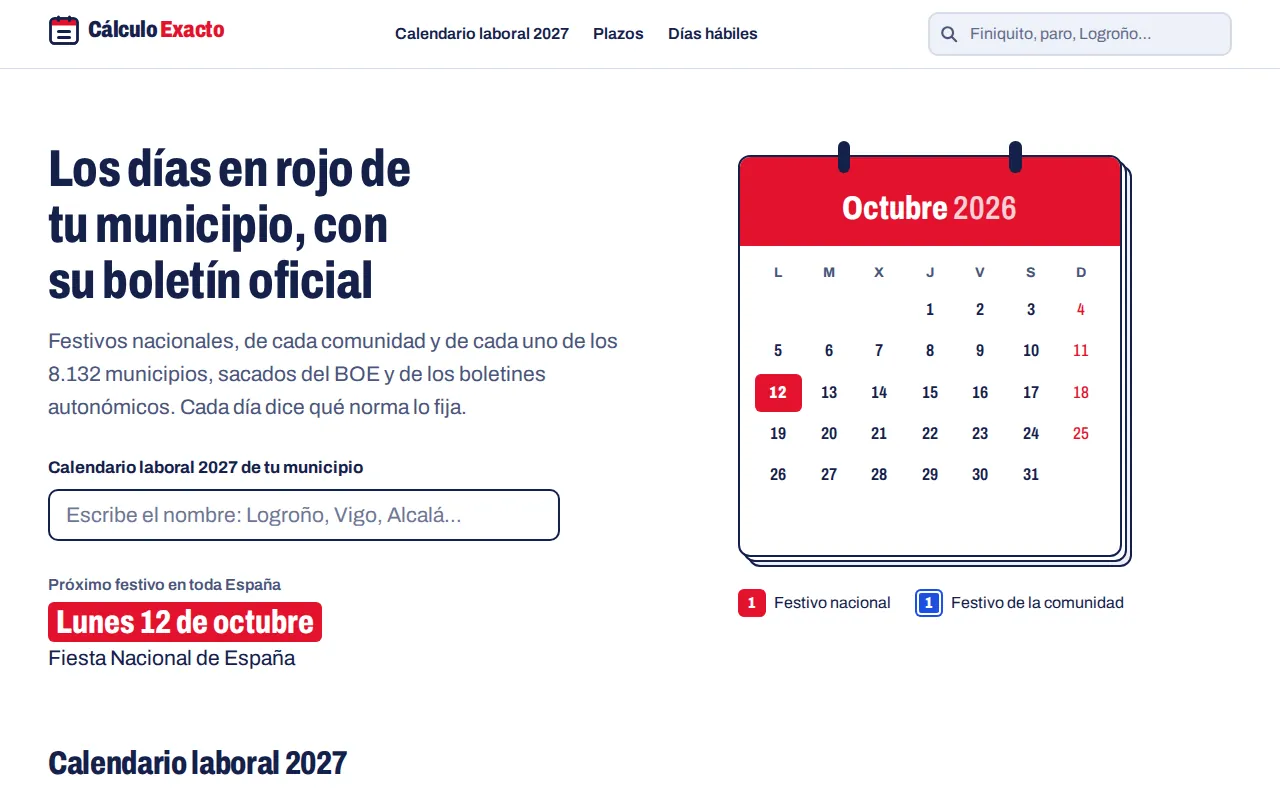
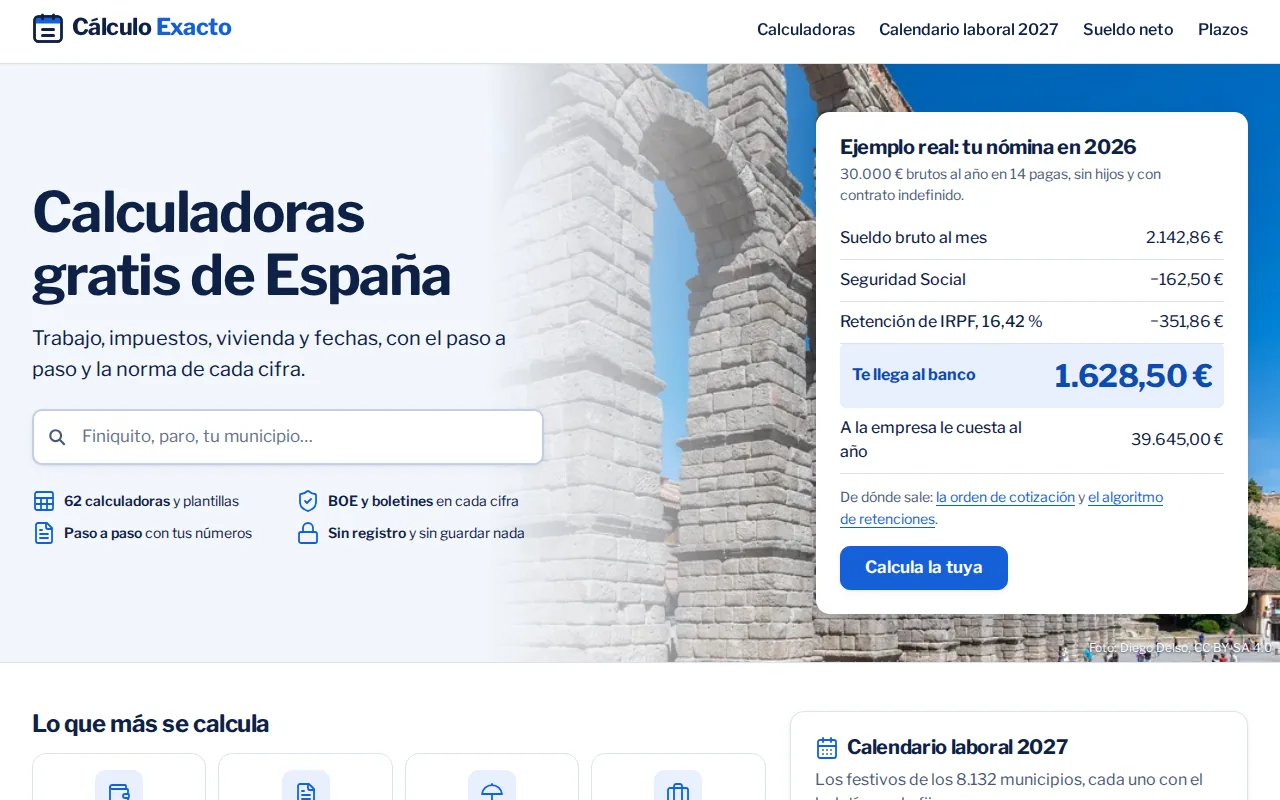
Maquetas E1: arreglos de la segunda revisión
- Los tráileres conservan su color y su carátula: ajustar() ya no reescribe el
  estilo entero del cristal y la pantalla copia sus variables a su capa de dentro.
- El rompedor comprueba el color del tráiler en los seis tamaños y tras redimensionar.
- El quiosco dice «Tarjeta leída» desde el primer fotograma del embarque.
- Capturas nuevas de Marbella Fácil (gastronomía) y Cálculo Exacto (portada actual).
- Fuera las capturas de Adivinadle con marcas de otros: el dorso lo cuenta con texto propio.
- Menores: foco con las flechas en el panel, tráiler quieto con movimiento reducido,
  tele de espera apagada con la caja delante, contraste del párrafo a 820 y cámara al
  día antes de proyectar lo que va encima del 3D.

Claude-Session: https://claude.ai/code/session_01VDHHKjSRtDGVBJ8dq4f9K8

diff --git a/docs/direcciones-diseno/maquetas-e1/salidas/js/app.js b/docs/direcciones-diseno/maquetas-e1/salidas/js/app.js
@@ -13,7 +13,7 @@ import { montarRutas } from '../../../kit-e1/js/rutas.js';
 import * as C from '../../../kit-e1/js/coleccion.js';
 import { PROYECTOS, porId } from '../../../kit-e1/js/datos.js';
 import { encender, apagarYa } from '../../../kit-e1/js/pantalla.js';
-import { ajustar } from '../../../kit-e1/js/proyectar.js';
+import { ajustar, desajustar } from '../../../kit-e1/js/proyectar.js';
 import { Tablero } from './paletas.js';
 import * as I from './impresos.js';
 
@@ -358,7 +358,7 @@ const tele = $('#tele'), mandos = $('.tele-mandos'), webTele = $('.tele-web');
 let enTele = null, teleId = null, teleTurno = 0;
 function seguirTele() {
   if (tele.hidden) return;
-  if (movil()) { tele.style.cssText = ''; tele.classList.add('completa'); return; }
+  if (movil()) { if (!tele.classList.contains('completa')) { desajustar(tele); tele.classList.add('completa'); } return; }
   tele.classList.remove('completa');
   const g = 0.012, x0 = P.x - P.ancho / 2 + g, x1 = P.x + P.ancho / 2 - g, z0 = P.z + P.alto / 2 - g, z1 = P.z - P.alto / 2 + g;
   ajustar(tele, [S.aPantalla(x0, P.y, z0), S.aPantalla(x1, P.y, z0), S.aPantalla(x1, P.y, z1), S.aPantalla(x0, P.y, z1)]);
@@ -426,7 +426,8 @@ async function irA_(ruta, { inmediato }, mio) {
     dice.textContent = paso === 'embarque' ? (p.demo ? 'La demo es una simulación: personajes inventados, la mecánica es la del juego.' : 'El tráiler del proyecto, en la pantalla del quiosco.') : PASOS.find((x) => x.id === paso).dice;
     pintarFicha(p);
   }
-  if (p && paso !== 'embarque' && perdido) requestAnimationFrame(() => pasos.querySelector('[aria-current="step"]')?.focus({ preventScroll: true }));
+  // el foco sigue al paso activo (también al embarcar con las flechas; al encenderse, la pantalla lo pasa a sus mandos)
+  if (p && perdido) requestAnimationFrame(() => pasos.querySelector('[aria-current="step"]')?.focus({ preventScroll: true }));
   if (id === 'panel' && perdido && ultimaEntrada === 'teclado') requestAnimationFrame(() => { S.dibujar(); botonesFila[Math.max(0, filasProyecto.indexOf(antes))]?.focus({ preventScroll: true }); });
   const otra = seleccion >= 0 && (!p || seleccion !== i);
   if (paso !== 'embarque') { apagarTele(); enPantalla = false; }
@@ -481,8 +482,8 @@ async function irA_(ruta, { inmediato }, mio) {
   }
   // 4) embarcar: la tarjeta, al lector (desde la mano o recién impresa); se pone la luz verde y la cámara se acerca a
   // la pantalla, que arranca mientras llega
+  pantallaQuiosco('leida', p);   // desde el primer fotograma: la tarjeta ya va al lector (antes seguía «Imprimiendo…»)
   if (!await fase({ lee: 1, rz: giroCercano(muelles.v.rz, 0), corta: 0, cam: camLector() }, ['lee'], mio, 0.12)) return;
-  pantallaQuiosco('leida', p);
   enPantalla = true; muelles.ir({ cam: camPantalla() });
   encenderTele(p);
 }

diff --git a/docs/direcciones-diseno/maquetas-e1/estanteria/js/app.js b/docs/direcciones-diseno/maquetas-e1/estanteria/js/app.js
@@ -12,7 +12,7 @@ import { montarRutas } from '../../../kit-e1/js/rutas.js';
 import * as C from '../../../kit-e1/js/coleccion.js';
 import { PROYECTOS, porId } from '../../../kit-e1/js/datos.js';
 import { encender, apagarYa } from '../../../kit-e1/js/pantalla.js';
-import { ajustar } from '../../../kit-e1/js/proyectar.js';
+import { ajustar, desajustar } from '../../../kit-e1/js/proyectar.js';
 
 const $ = (s) => document.querySelector(s);
 const W = 1.35, H = 1.9, MW = 1.08;
@@ -226,7 +226,9 @@ function colocar(v) {
   const vela = 1 - suave(0.25, 0.85, foco);
   for (const [m, e] of lamparaMats) { m.uniforms.atenua.value = fondo * (1 - 0.6 * foco); m.uniforms.emite.value.copy(e).multiplyScalar(1 - 0.85 * foco); m.uniforms.opacidad.value = vela; m.depthWrite = vela > 0.99; }
   for (const o of lamparaMallas) o.visible = vela > 0.004;
-  espera.material.color.setScalar(fondo * fondo * (1 - 0.9 * foco));   // con la caja delante, la tele de espera casi se apaga (su rótulo distraía detrás) espera.visible = tele.hidden;
+  // con la caja delante, la tele de espera se apaga del todo (su rótulo asomaba detrás de la caja abierta, a 820)
+  const luzEspera = fondo * fondo * (1 - foco);
+  espera.material.color.setScalar(luzEspera); espera.visible = luzEspera > 0.004;
   for (const m of nichos) m.uniforms.mezcla.value = seleccion >= 0 ? suave(0, 0.5, fuera) : 0;
   caja.updateMatrixWorld(true);
 
@@ -349,7 +351,7 @@ const tele = $('#tele'), mandos = $('.tele-mandos'), webTele = $('.tele-web');
 let enTele = null, teleId = null, teleQuiere = null, discoDentro = false;
 function seguirTele() {
   if (tele.hidden) return;
-  if (estrecho()) { if (!tele.classList.contains('completa')) { tele.style.cssText = ''; tele.classList.add('completa'); } return; }
+  if (estrecho()) { if (!tele.classList.contains('completa')) { desajustar(tele); tele.classList.add('completa'); } return; }
   tele.classList.remove('completa');
   const g = 0.06, x0 = TEL.x - TEL.ancho / 2 + g, x1 = TEL.x + TEL.ancho / 2 - g, z0 = TEL.z + g, z1 = TEL.z + TEL.alto - g, y = TEL.y - 0.08;
   ajustar(tele, [S.aPantalla(x0, y, z1), S.aPantalla(x1, y, z1), S.aPantalla(x1, y, z0), S.aPantalla(x0, y, z0)]);

diff --git a/docs/direcciones-diseno/kit-e1/css/tele.css b/docs/direcciones-diseno/kit-e1/css/tele.css
@@ -198,4 +198,29 @@
   .tr-rotulo { font-size: max(8px, min(2.6cqw, 1.6cqh)); }
 }
 
-@media (prefers-reduced-motion: reduce) { .tr *, .tr { animation-duration: .01s !important; animation-delay: 0s !important; } .celda-in { transition: none; } }
+/* Con movimiento reducido, el tráiler es una lámina quieta: la captura (o el esquema), las cifras y el enlace a su web,
+   todo a la vez y sin animar (antes saltaba directo a la tarjeta final y no se veían ni la captura ni las cifras) */
+@media (prefers-reduced-motion: reduce) {
+  /* cada pieza, en su estado final (el esquema ya resuelto, las cifras puestas); las escenas, quietas y a la vista */
+  .tr * { animation-duration: .01s !important; animation-delay: 0s !important; }
+  .tr-a, .tr-b, .tr-fin, .tr-marco { animation: none !important; }
+  .tr-a { display: none; }
+  .tr-b { opacity: 1; }
+  .tr-b .tr-marco { top: 7cqh; height: calc(35cqw + 4.2cqh); max-height: 74cqh; }
+  .tr-b .es { top: 7cqh; bottom: 19cqh; }
+  .tr-cifras { bottom: 15cqh; }
+  .tr-fin { opacity: 1; inset: auto 0 0 0; padding: 2.4cqh 4cqw; flex-direction: row; justify-content: flex-start; gap: 2cqw;
+    background: linear-gradient(180deg, rgba(0, 0, 0, 0), rgba(0, 0, 0, .5)); }
+  .tr-fin > b { font-size: min(3.6cqw, 6.4cqh); }
+  .tr-fin > p, .tr-sello, .tr-fin [data-otra-vez] { display: none; }
+  .tr-botones { margin: 0 0 0 auto; }
+  .celda-in { transition: none; }
+}
+@media (prefers-reduced-motion: reduce) {
+  @container (max-aspect-ratio: 1/1) {
+    .tr-b .tr-marco { top: 7cqh; max-height: none; }
+    .tr-b .es { top: 7cqh; bottom: 46cqh; }
+    .tr-cifras { top: max(58cqh, calc(12cqh + 56.25cqw)); bottom: 14cqh; }
+    .tr-fin > b { font-size: min(7cqw, 4.4cqh); }
+  }
+}

diff --git a/docs/direcciones-diseno/maquetas-e1/estanteria/css/estanteria.css b/docs/direcciones-diseno/maquetas-e1/estanteria/css/estanteria.css
@@ -17,7 +17,7 @@ body { background: var(--fondo); color: var(--crema); }
 /* el bloque no se queda los clics (solo sus botones): a ningún tamaño puede tapar un lomo */
 .heroe a, .heroe button { pointer-events: auto; }
 /* las líneas pequeñas, sobre una sombra que las separa de la pared iluminada */
-.ante, .pista { text-shadow: 0 1px 2px rgba(16, 11, 8, .9), 0 0 14px rgba(16, 11, 8, .8); }
+.ante, .pista, .sub { text-shadow: 0 1px 2px rgba(16, 11, 8, .9), 0 0 14px rgba(16, 11, 8, .8); }
 .ante { margin: 0 0 18px; font: 500 12px/1.4 var(--mono); letter-spacing: .12em; text-transform: uppercase; color: var(--crema); text-wrap: balance; }
 .heroe h1 { margin: 0; font: 700 clamp(40px, 4.4vw, 66px)/.95 var(--titulo); letter-spacing: -.005em; text-wrap: balance; }
 .heroe h1 em { font: italic 400 1.02em/1 var(--cursiva); color: var(--ambar); }
@@ -98,7 +98,7 @@ html[data-ruta="caja"] #plato, html[data-ruta="dorso"] #plato { cursor: grab; }
 @media (max-width: 1100px) {
   .heroe { width: min(360px, 36vw); }
   .heroe h1 { font-size: clamp(36px, 4.2vw, 46px); }
-  .sub { font-size: 16px; }
+  .sub { font-size: 16px; color: var(--crema); }   /* en tableta la pared detrás es más clara: el gris no se leía */
   .ficha-lateral { width: min(280px, 28vw); }
   .fl-linea { font-size: 15px; }
 }

diff --git a/docs/direcciones-diseno/kit-e1/js/datos.js b/docs/direcciones-diseno/kit-e1/js/datos.js
@@ -21,6 +21,8 @@ export const ROTULOS = {
 // color: lomo y franja; tinta: el texto sobre ese color; arte: carátula y disco (arte/portadas).
 // capturas: pies de las dos capturas reales de su web (arte/capturas/<id>-1 y -2). Los que no tienen web pública ni
 // capturas que se puedan enseñar (datos de clientes o de la red interna) llevan en su tráiler un esquema animado.
+// enLaWeb: lo que hay en su web, contado con texto propio, cuando sus capturas enseñarían marcas de otros (Adivinadle:
+// los logos y personajes de los juegos son de sus dueños; el portfolio es público).
 export const PROYECTOS = [
   {
     id: 'adivinadle', n: '01', nombre: 'Adivinadle', color: '#1B2140', tinta: '#F7B500',
@@ -34,7 +36,7 @@ export const PROYECTOS = [
       ['Resultado', '9 juegos en adivinadle.com, con la portada cargada en 1,5 s.'],
     ],
     cifras: [['9', 'juegos'], ['4', 'modos'], ['1,5 s', 'en cargar la portada']],
-    capturas: ['adivinadle.com · la portada', 'adivinadle.com · el modo Clásico'],
+    enLaWeb: ['Nueve juegos, cuatro modos cada uno: Clásico, Símbolos, Descripción y Silueta.', 'Un caso nuevo cada día, el mismo para todo el mundo.'],
     stack: ['Astro', 'Laravel', 'PostgreSQL'],
     web: ['adivinadle.com', 'https://adivinadle.com'],
   },

diff --git a/docs/direcciones-diseno/kit-e1/js/proyectar.js b/docs/direcciones-diseno/kit-e1/js/proyectar.js
@@ -12,5 +12,13 @@ export function ajustar(el, [[x0, y0], [x1, y1], [x2, y2], [x3, y3]]) {
   const g = (sx * dy2 - dx2 * sy) / den, k = (dx1 * sy - sx * dy1) / den;
   const a = x1 - x0 + g * x1, b = x3 - x0 + k * x3, d = y1 - y0 + g * y1, e = y3 - y0 + k * y3;
   const m = [a / w, d / w, 0, g / w, b / h, e / h, 0, k / h, 0, 0, 1, 0, x0, y0, 0, 1].map((v) => +v.toFixed(6));
-  el.style.cssText = `left:0;top:0;width:${w}px;height:${h}px;transform-origin:0 0;transform:matrix3d(${m.join(',')})`;
+  // solo lo suyo: el resto del estilo en línea (p. ej. las variables de color que pone la pantalla) se respeta
+  const st = el.style;
+  st.setProperty('left', '0'); st.setProperty('top', '0'); st.setProperty('width', `${w}px`); st.setProperty('height', `${h}px`);
+  st.setProperty('transform-origin', '0 0'); st.setProperty('transform', `matrix3d(${m.join(',')})`);
+}
+
+// quitar lo que puso `ajustar` (cuando el elemento pasa a ocupar la pantalla por CSS), sin tocar lo demás
+export function desajustar(el) {
+  for (const k of ['left', 'top', 'width', 'height', 'transform-origin', 'transform']) el.style.removeProperty(k);
 }

diff --git a/docs/direcciones-diseno/kit-e1/js/coleccion.js b/docs/direcciones-diseno/kit-e1/js/coleccion.js
@@ -123,6 +123,15 @@ export async function dorso(c, p) {
       x.fillStyle = conAlfa('#ffffff', 0.8); x.font = mono(19); x.fillText(p.capturas[k], dx, dy + 318);
     });
     y += 350;
+  } else if (img && p.enLaWeb) {
+    // la carátula a la izquierda y, a la derecha, lo que hay en su web contado con palabras propias
+    const dy = y + 40;
+    x.save(); x.beginPath(); x.rect(64, dy, 400, 288); x.clip(); cubrir(x, img, 64, dy, 400, 288, 0.5, 0.62); x.restore();
+    x.strokeStyle = 'rgba(255,255,255,.85)'; x.lineWidth = 4; x.strokeRect(64, dy, 400, 288);
+    x.fillStyle = p.tinta; x.font = mono(21); x.fillText(`EN ${p.web[0].toUpperCase()}`, 500, dy + 26);
+    x.fillStyle = conAlfa('#ffffff', 0.92); x.font = sans(27); let ty = dy + 74;
+    for (const t of p.enLaWeb) ty = parrafo(x, t, 500, ty, W - 564, 36) + 16;
+    y += 350;
   } else if (img) {
     x.save(); x.beginPath(); x.rect(64, y + 40, W - 128, 300); x.clip(); cubrir(x, img, 64, y + 40, W - 128, 300, 0.5, 0.62); x.restore();
     x.strokeStyle = 'rgba(255,255,255,.85)'; x.lineWidth = 4; x.strokeRect(64, y + 40, W - 128, 300);

diff --git a/docs/direcciones-diseno/kit-e1/js/pantalla.js b/docs/direcciones-diseno/kit-e1/js/pantalla.js
@@ -75,6 +75,8 @@ export async function encender(p, { el, RM, guardado, alResolver }) {
   el.innerHTML = '<div class="pantalla-in"></div><div class="tubo"></div>';
   el.hidden = false;
   const dentro = el.querySelector('.pantalla-in'), tubo = el.querySelector('.tubo');
+  // los colores y la carátula también en lo de dentro: así no dependen del estilo del cristal, que la maqueta mueve
+  for (const k of ['--c', '--t', '--k']) dentro.style.setProperty(k, el.style.getPropertyValue(k));
   let juego = null, vivo = true, saltar = null;
   const mia = () => vivo && el._pantalla === yo;
   yo.cortar = () => { vivo = false; saltar?.(); juego?.quitar(); juego = null; };

diff --git a/docs/direcciones-diseno/kit-e1/js/motor.js b/docs/direcciones-diseno/kit-e1/js/motor.js
@@ -155,6 +155,9 @@ export async function montarEscena(cfg) {
     camara.lookAt(obj);
     camara.setViewOffset(W, H, W * (0.5 - (c.px ?? 0.5)), H * (0.5 - (c.py ?? 0.5)), W, H);
     camara.updateProjectionMatrix();
+    // las matrices de la cámara, al día ya: lo que se pega encima del 3D (aPantalla) se calcula en este mismo fotograma,
+    // antes del render; si no, iba un fotograma tarde y, tras un salto sin animar (movimiento reducido), se quedaba mal
+    camara.updateMatrixWorld();
     return k;
   }
 
